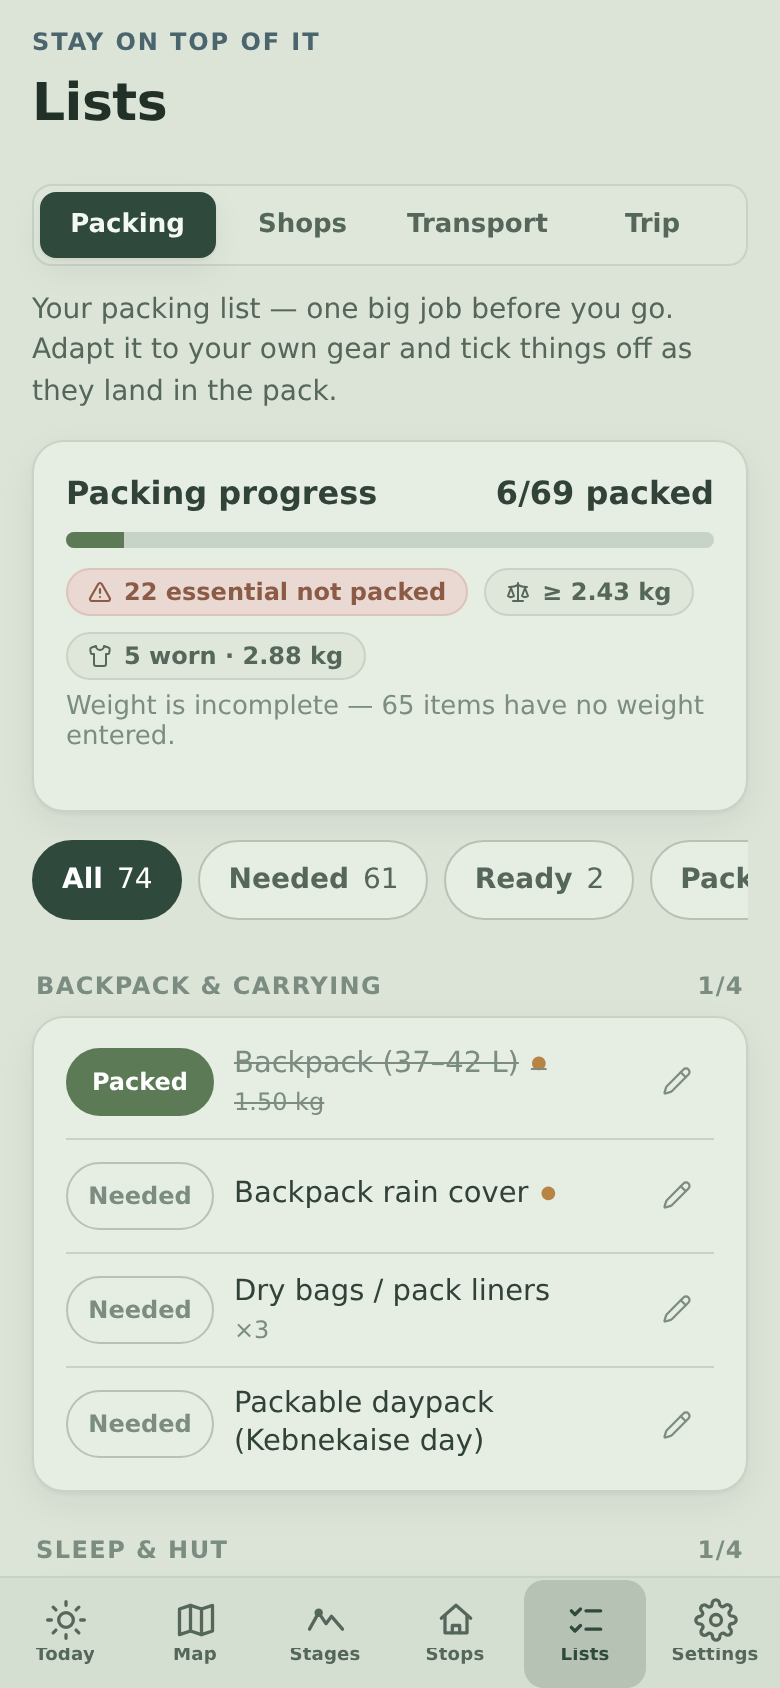
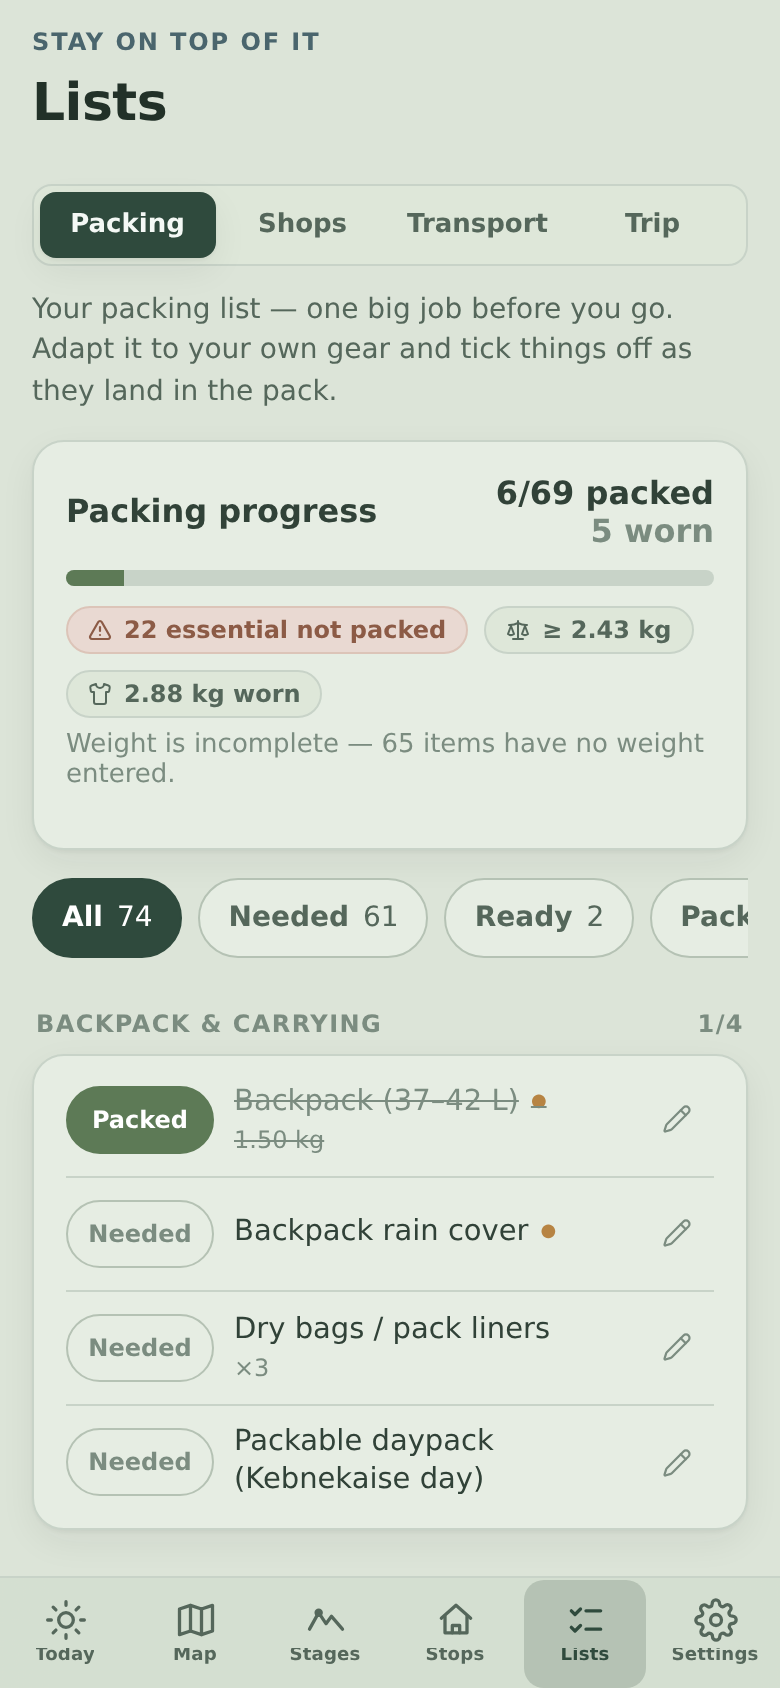
Packing header: stack the worn count under the packed count
The progress header now names the worn count directly beneath the packed
count ("6/69 packed" over "5 worn", right-aligned) instead of leaving
the shrunken denominator to explain itself through a pill. A literal
one-line "6/69 packed · 5 worn" was measured and rejected: the title
plus both counts cannot share a line even at 390px, so it wrapped
mid-phrase with a dangling separator. Each count is one unbreakable
line; with nothing worn the header is exactly the pre-feature one.

The worn pill now carries the worn WEIGHT only ("2.88 kg worn", with
the same ≥ lower-bound marker as the backpack weight when worn weights
are incomplete) — the count already sits in the header.

Verified at 320px and 390px; the 320px title wrap predates this change.
Suite green (884 tests), typecheck and build clean.

Claude-Session: https://claude.ai/code/session_015Gs3DTrkt81wmTLgRrWqdr

diff --git a/src/screens/ListsScreen.tsx b/src/screens/ListsScreen.tsx
@@ -366,14 +366,22 @@ function PackingView() {
   return (
     <>
       {/* Progress overview — a backpack meter. Worn items are handled but
-          not in the pack, so they leave the packed denominator and surface
-          as one quiet pill (count + worn weight) instead of a second meter:
-          the card keeps a single number, a single bar, one pill row. */}
+          not in the pack, so they leave the packed denominator; the worn
+          count sits IN the header value ("6/69 packed" over "5 worn",
+          stacked — see .pack-progress-count) so the shrunken denominator
+          explains itself without mental subtraction. Worn weight is a
+          separate quiet pill. One number block, one bar, one pill row —
+          and with nothing worn, exactly the old header. */}
       <div className="card">
         <div className="row-between">
           <span className="card-title">Packing progress</span>
-          <span className="tnum" style={{ fontWeight: 700 }}>
-            {stats.packed}/{stats.packTotal} packed
+          <span className="tnum pack-progress-count" style={{ fontWeight: 700 }}>
+            <span>
+              {stats.packed}/{stats.packTotal} packed
+            </span>
+            {stats.worn > 0 ? (
+              <span className="pack-progress-count__worn">{stats.worn} worn</span>
+            ) : null}
           </span>
         </div>
         <div className="meter" style={{ marginTop: 10 }}>
@@ -398,16 +406,14 @@ function PackingView() {
               {formatGrams(stats.weightedGrams)}
             </span>
           ) : null}
-          {stats.worn > 0 ? (
+          {stats.wornWeightedGrams > 0 ? (
             <span
               className="pill tnum"
-              title="Worn on the body — not in the backpack and not in its weight"
+              title="Weight worn on the body — items with an entered weight × quantity, never part of the backpack weight"
             >
               <Shirt size={12} strokeWidth={2} aria-hidden />
-              {stats.worn} worn
-              {stats.wornWeightedGrams > 0
-                ? ` · ${stats.wornWeightMissing > 0 ? '≥ ' : ''}${formatGrams(stats.wornWeightedGrams)}`
-                : ''}
+              {stats.wornWeightMissing > 0 ? '≥ ' : ''}
+              {formatGrams(stats.wornWeightedGrams)} worn
             </span>
           ) : null}
         </div>

diff --git a/src/styles/global.css b/src/styles/global.css
@@ -3416,6 +3416,21 @@ button.stop-fac:focus-visible {
   border-color: var(--spruce);
   color: #fff;
 }
+/* Progress-header value: the packed count with, once anything is worn, the
+   worn count right-aligned directly beneath it. Stacked rather than
+   "6/69 packed · 5 worn" on one line: the title plus both counts cannot
+   share a line even at 390px, and a mid-phrase wrap with a dangling
+   separator reads broken. Each count is one unbreakable line. */
+.pack-progress-count {
+  display: flex;
+  flex-direction: column;
+  align-items: flex-end;
+  white-space: nowrap;
+}
+.pack-progress-count__worn {
+  font-weight: 600;
+  color: var(--ink-faint);
+}
 .pack-label {
   flex: 1;
   min-width: 0;

diff --git a/CHANGELOG.md b/CHANGELOG.md
@@ -18,8 +18,9 @@ pre-1.0 rules in the [development docs](docs/DEVELOPMENT.md#versioning--releases
   item editor gains a Worn checkbox below Essential item. Packed and Worn are
   two different locations, so an item can never be both: choosing one always
   clears the other. The packing progress header counts packed items over
-  backpack items only, and a quiet pill shows the worn count with its own
-  weight — worn items no longer inflate the backpack weight. A Worn filter
+  backpack items only and names the worn count right beneath it ("6/69
+  packed" over "5 worn"), with a quiet pill for the worn weight — worn
+  items no longer inflate the backpack weight. A Worn filter
   pill appears once the first item is worn. Existing lists are untouched:
   every item simply starts un-worn and the screen looks exactly as before
   until you use the feature.
